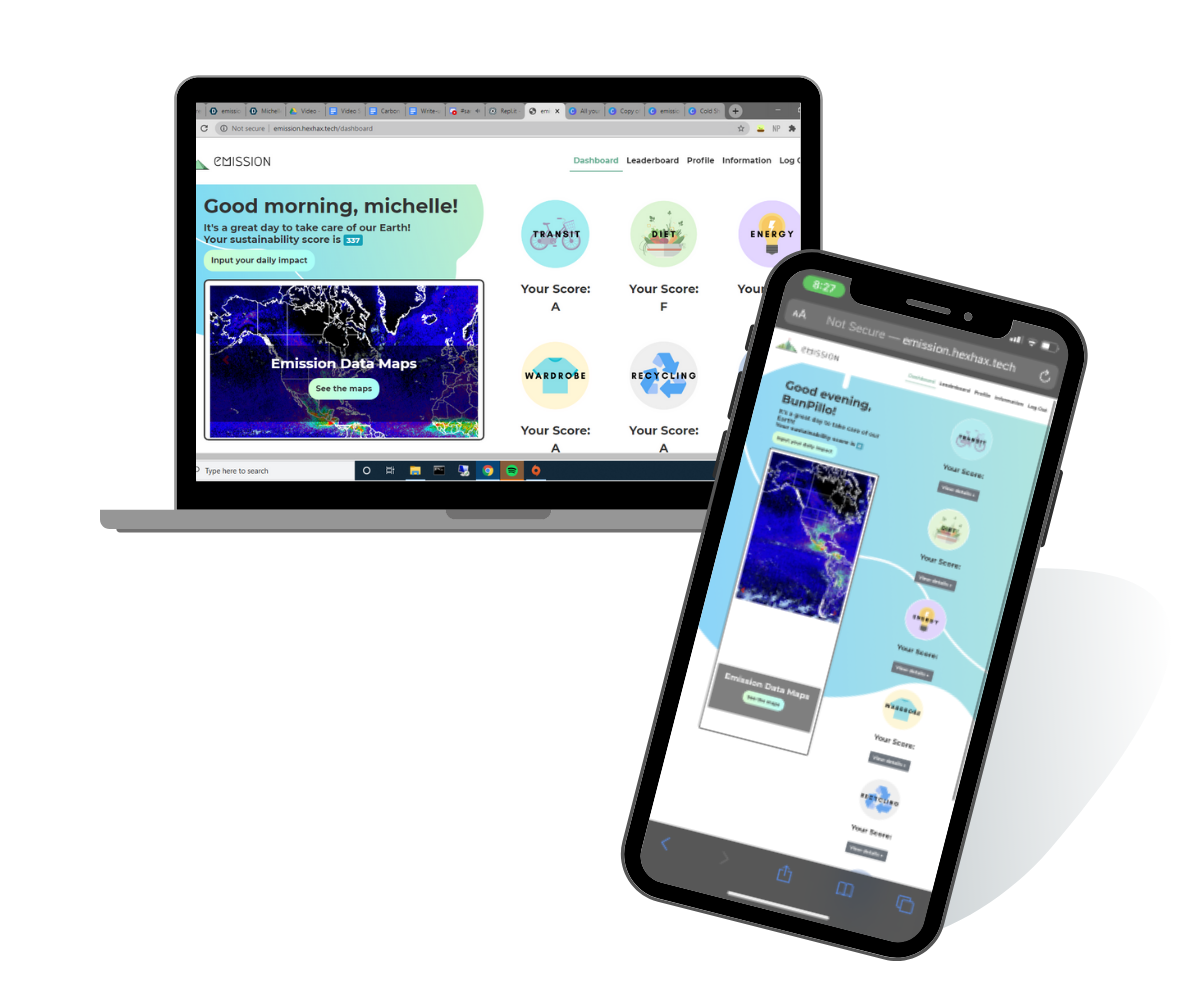
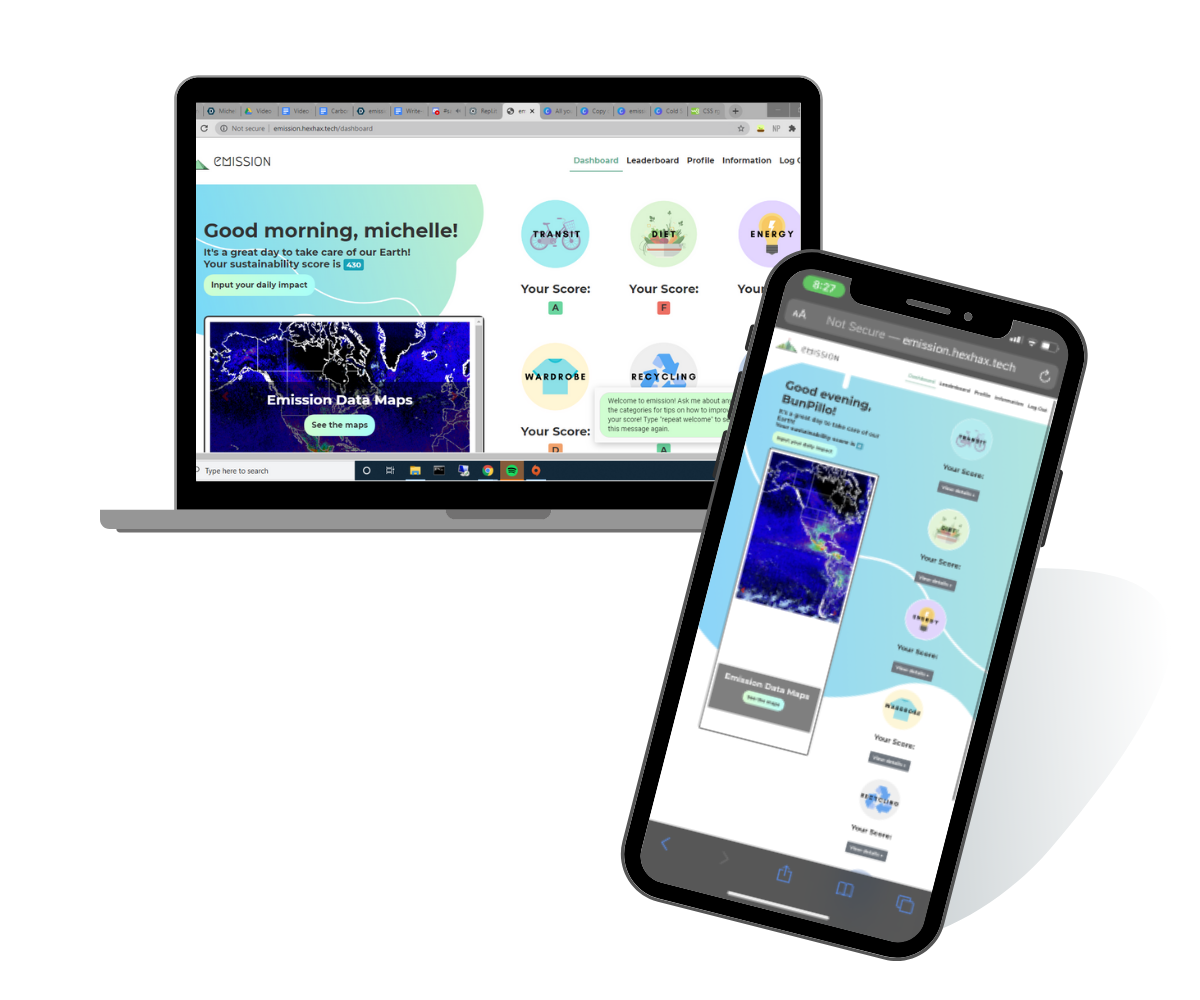
initial submission

Changed region(s): [[0.1542, 0.186, 0.4317, 0.496], [0.4317, 0.372, 0.6167, 0.465], [0.185, 0.093, 0.6475, 0.124]]

diff --git a/templates/index.html b/templates/index.html
@@ -19,8 +19,10 @@
         --df-messenger-bot-message: rgba(208,255,209,1);
         --df-messenger-user-message: rgba(169,255,249,1);
         --df-messenger-chat-background: lightgrey;
-        --df-messenger-input-box-color: rgb(60, 240, 200);
-				/* rgb(40, 200, 240) */
+        --df-messenger-input-box-color: #6cd3f4;
+        --df-messenger-button-titlebar-color: #a5e4c1;
+        --df-messenger-button-titlebar-font-color: #111;
+        --df-messenger-input-font-color: #111;
       }
     </style>
 		<!-- Notifications -->

diff --git a/templates/partials/carousel.html b/templates/partials/carousel.html
@@ -28,7 +28,7 @@
 						<h2>
 							Calorie Counter
 						</h2>
-						<p>
+						<p style="font-size:1em;">
 							&raquo; Don't sacrifice a healthy diet in favor of sustainability!
 							<br> 
 							&raquo; Use Calorie Counter by typing in the name of your food!

diff --git a/static/styles/index.css b/static/styles/index.css
@@ -274,8 +274,7 @@ body {
 
 #calories{
   /* margin-left: 3%; */
-	font-size: 2em;
-	font-weight: bold;
+	font-size: 1.5em;
 	display: block;
 	width: 80%;
 }
